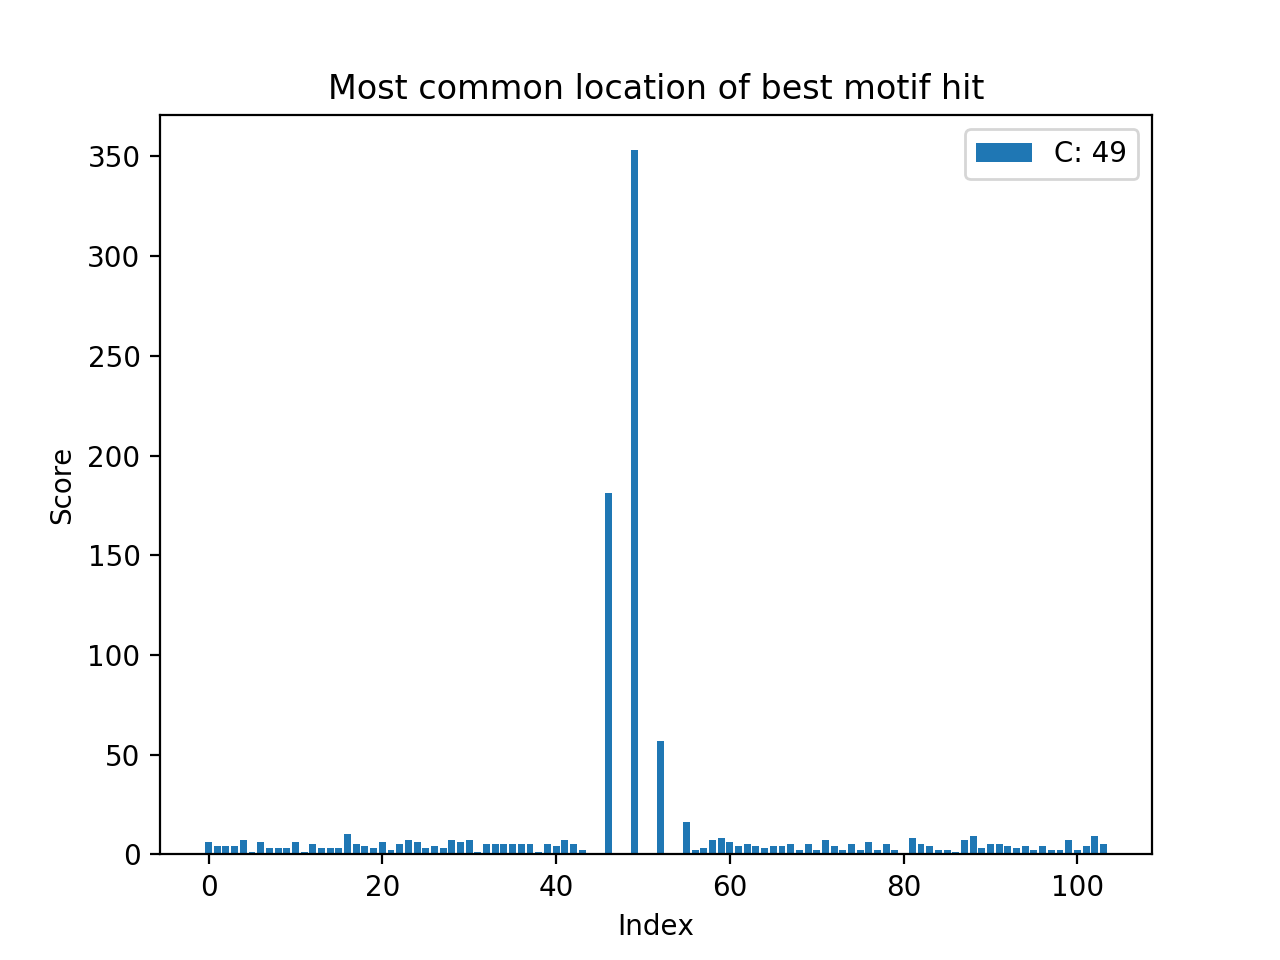
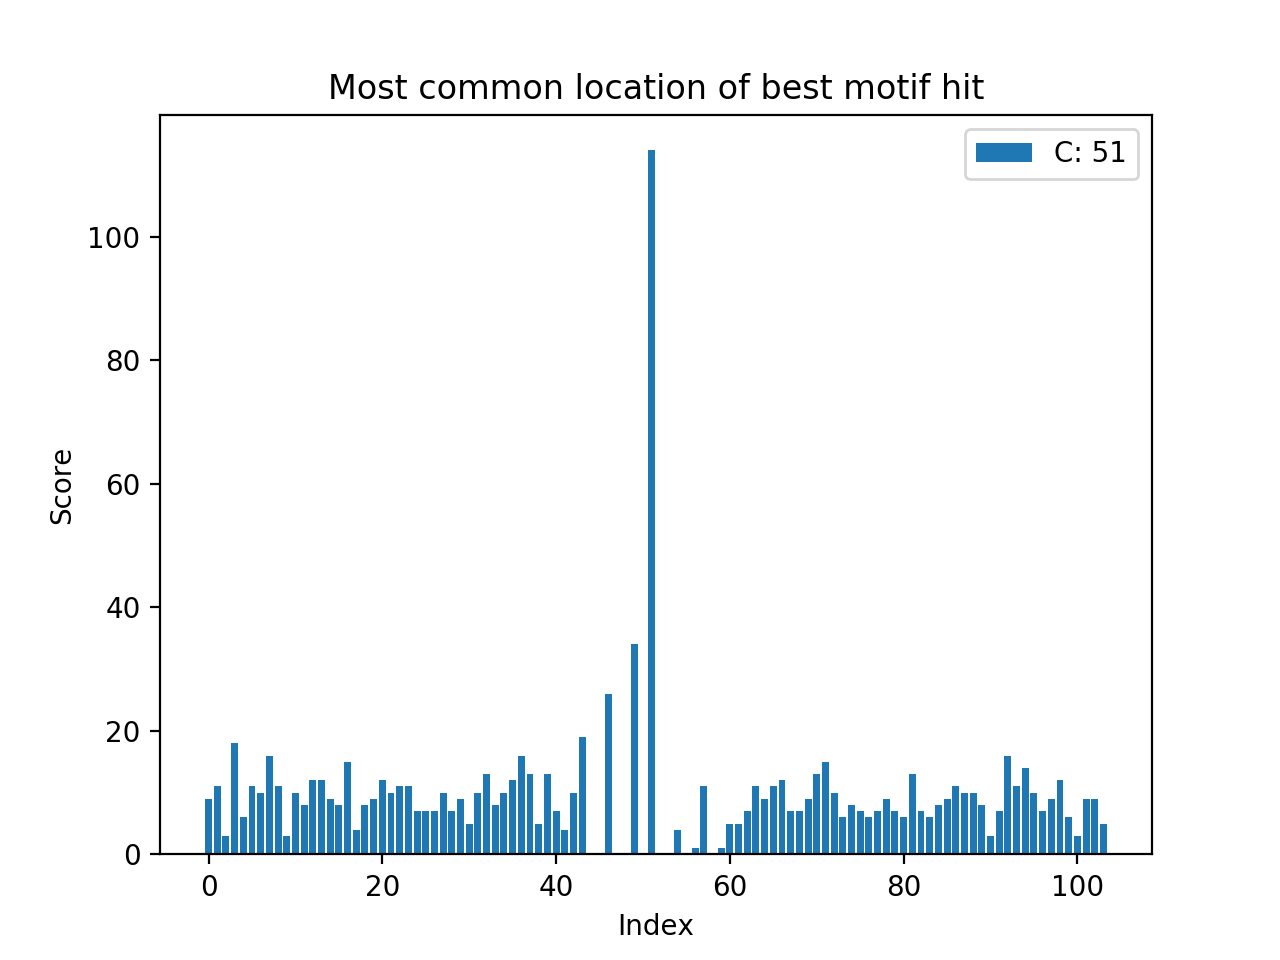
high roc curves

diff --git a/hw2/main.py b/hw2/main.py
@@ -237,8 +237,8 @@ def train_step(wmm_list, seq_list, init_entropy):
   ABCD_freq = []
 
   A_index = np.argmax(entropy_result)
-  B_index = np.argmin(entropy_result)
-  C_index = np.argsort(entropy_result)[len(entropy_result)//2]
+  B_index = np.argsort(entropy_result)[len(entropy_result)//2]
+  C_index = np.argmin(entropy_result)
 
   ABCD_wmm.append(wmm_result[A_index])
   ABCD_wmm.append(wmm_result[B_index])
@@ -352,47 +352,71 @@ def eval_step(ABCD_wmm, ABCD_freq, seq_list):
     
     # we'd rather be able to directly index by start position, so swap axes
     counts = np.swapaxes(counts, 0, 1)
-    
-    # # for properly shaping the score structs
-    # flat_list = []
-    # for j, count in enumerate(counts):
-    #   state = False
-    #   if j == start_list[i]:
-    #     state = True
+
+    pos_count = 0
+    neg_count = 0
+
+    # for properly shaping the score structs
+    flat_list = []
+    for j, count in enumerate(counts):
+      if j == start_list[i]:
+        state = True
+        pos_count += 1
+      else:
+        state = False
+        neg_count += 1
       
-    #   for val in count:
-    #     score = ds.score_info(val, state)
-    #     flat_list.append(score)
+      for val in count:
+        score = ds.score_info(val, state)
+        flat_list.append(score)
 
-    #   # see if we can update our concrete point
-    #   if tpr == 1 and i == 2 and fpr < break_point[1]:
-    #     break_point = [tpr, fpr, score]
+    flat_list = sorted(flat_list, key=lambda score: [score.score])
 
-    flat_list = h.flatten_2d_list(counts)
-    flat_list = sorted(flat_list)
+    true_count = 0
+    total = len(flat_list)
 
-    for score in flat_list:
-      correct_matrix = counts >= score
+    for j, score in enumerate(flat_list):
 
-      motif_section = correct_matrix[start_list[i] - 1]
-      nonmotif_section = np.delete(correct_matrix, start_list[i] - 1, 0)
+      true_count += np.multiply(score.true, 1)
 
-      motif_section = motif_section.flatten()
-      nonmotif_section = nonmotif_section.flatten()
+      true_positives = true_count
+      false_positives = j - true_count + 1
+      # false_positives = total - (j + 1) - (pos_count - true_count)
 
-      true_positives = np.sum(motif_section)
-      false_positives = np.sum(nonmotif_section)
-      false_negatives = np.sum(~motif_section)
-      true_negatives = np.sum(~nonmotif_section)
-      
-      tpr = true_positives / (true_positives + false_negatives)
-      fpr = false_positives / (false_positives + true_negatives)
+      tpr = true_positives / pos_count
+      fpr = false_positives / neg_count
 
       ss_pairs.append([tpr, fpr])
 
       # see if we can update our concrete point
       if tpr == 1 and i == 2 and fpr < break_point[1]:
         break_point = [tpr, fpr, score]
+
+    # flat_list = h.flatten_2d_list(counts)
+    # flat_list = sorted(flat_list)
+
+    # for score in flat_list:
+    #   correct_matrix = counts >= score
+
+    #   motif_section = correct_matrix[start_list[i] - 1]
+    #   nonmotif_section = np.delete(correct_matrix, start_list[i] - 1, 0)
+
+    #   motif_section = motif_section.flatten()
+    #   nonmotif_section = nonmotif_section.flatten()
+
+    #   true_positives = np.sum(motif_section)
+    #   false_positives = np.sum(nonmotif_section)
+    #   false_negatives = np.sum(~motif_section)
+    #   true_negatives = np.sum(~nonmotif_section)
+      
+    #   tpr = true_positives / (true_positives + false_negatives)
+    #   fpr = false_positives / (false_positives + true_negatives)
+
+    #   ss_pairs.append([tpr, fpr])
+
+    #   # see if we can update our concrete point
+    #   if tpr == 1 and i == 2 and fpr < break_point[1]:
+    #     break_point = [tpr, fpr, score]
 
     ss_pairs = sorted(ss_pairs, key = lambda pair: [pair[0], pair[1]])
     x_values = [point[0] for point in ss_pairs]
